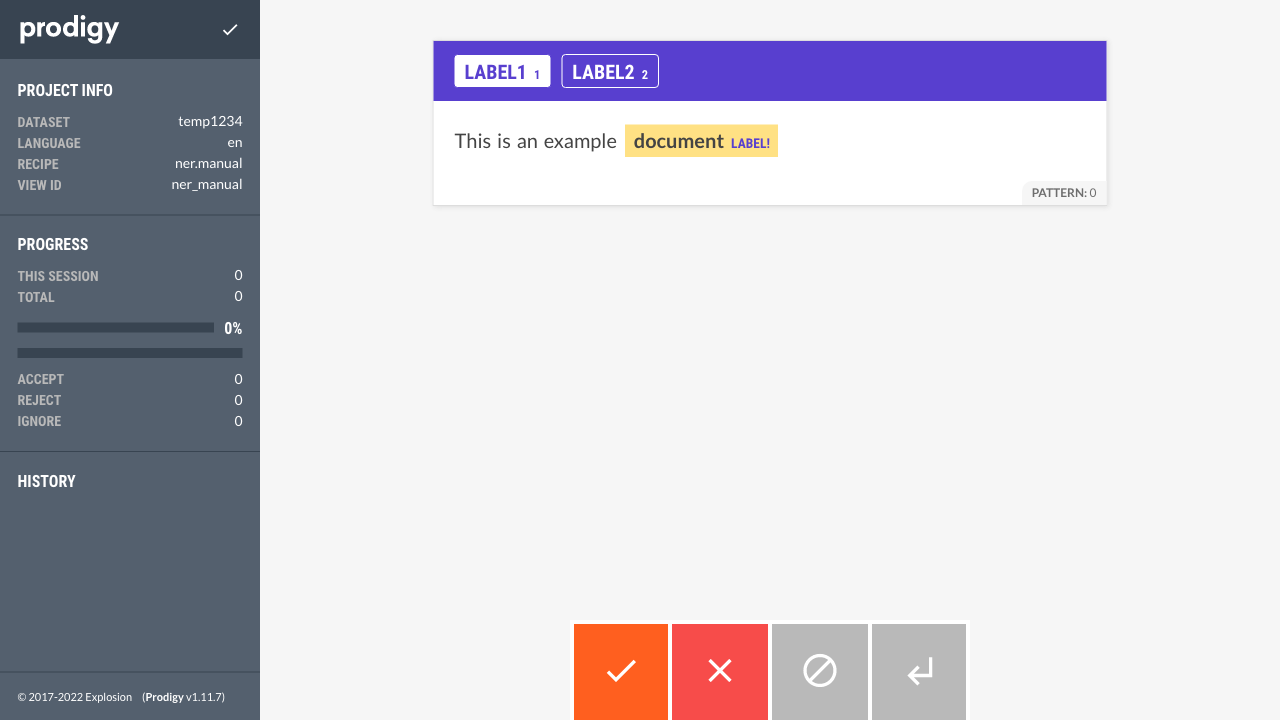
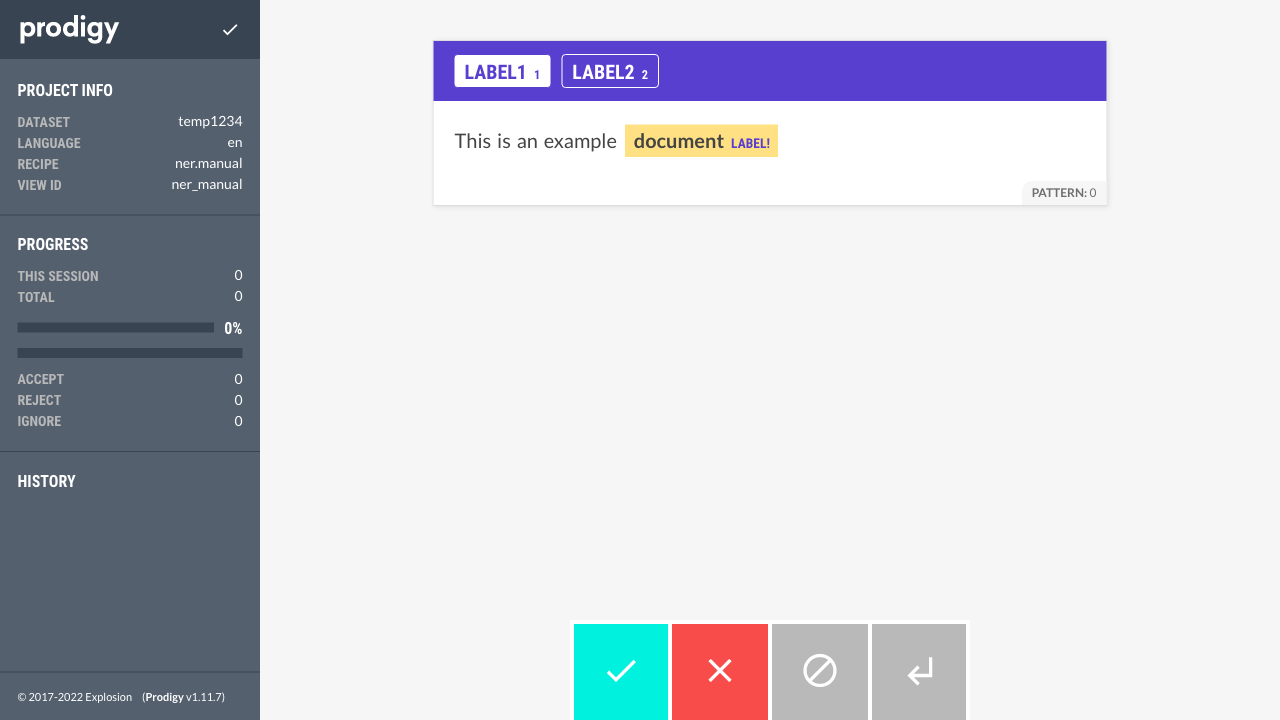
update with new colors

Changed region(s): [[0.4375, 0.8556, 0.5312, 1.0]]

diff --git a/generate_screenshots.py b/generate_screenshots.py
@@ -24,14 +24,16 @@ EXAMPLE_DATA = [
         "text": "This is an example document",
     }
 ]
-NEW_COLOR = "#FF5F1F"
 
+NEW_COLOR = "#00F2DE"
 temp_jsonl = NamedTemporaryFile(suffix=".jsonl")
 srsly.write_jsonl(temp_jsonl.name, EXAMPLE_DATA)
 
-temp_jsonl_patterns = NamedTemporaryFile(suffix=".jsonl")
 PATTERN = {"label": "LABEL!", "pattern": [{"lower": "document"}]}
+temp_jsonl_patterns = NamedTemporaryFile(suffix=".jsonl")
 srsly.write_jsonl(temp_jsonl_patterns.name, [PATTERN])
+
+
 color_attributes = [
     "accept",
     "reject",
@@ -61,8 +63,15 @@ color_attributes = [
     "colorCardTitle",
 ]
 
+colorstr = NEW_COLOR.lstrip("#")
 Path("readme.md").write_text(
-    "# Prodigy Custom Theme Screencaps\n\nSee: https://prodi.gy/docs/api-web-app#themes for options\n\n"
+    "\n\n".join(
+        [
+            "# Prodigy Custom Theme Screencaps",
+            "See https://prodi.gy/docs/api-web-app#themes for options.",
+            f"Shows what gets changed by coloring it with [![{colorstr}](https://img.shields.io/static/v1?label=Color&message={colorstr}&color={colorstr}&style=flat-square)](https://www.colorhexa.com/{colorstr}). ",
+        ]
+    )
 )
 
 
@@ -82,7 +91,7 @@ def run_prodigy(args: List[str]):
     # when just SIGINT or SIGTERM is sent.
     prodigy_server.terminate()
     prodigy_server.wait(10)
-    sleep(3)
+    sleep(1)
 
 
 for i, attribute in enumerate(color_attributes, 1):

diff --git a/readme.md b/readme.md
@@ -1,8 +1,8 @@
 # Prodigy Custom Theme Screencaps
 
-See: https://prodi.gy/docs/api-web-app#themes for options. Shows what gets changed by coloring it with [`#FF5F1F`](https://www.colorhexa.com/ff5f1f) (orange).
+See https://prodi.gy/docs/api-web-app#themes for options.
 
-## `accept` 
+Shows what gets changed by coloring it with [![00F2DE](https://img.shields.io/static/v1?label=Color&message=00F2DE&color=00F2DE&style=flat-square)](https://www.colorhexa.com/00F2DE). ## `accept` 
 
 ![accept](screenshots/01_accept.png)
 
